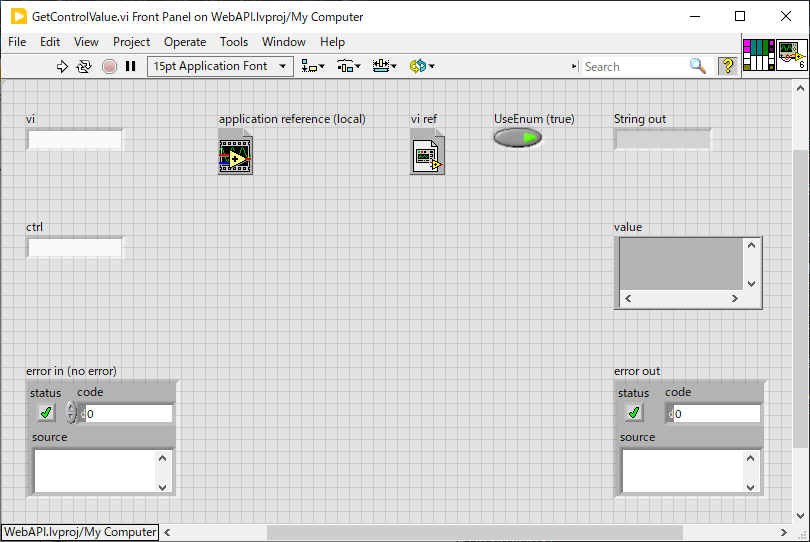
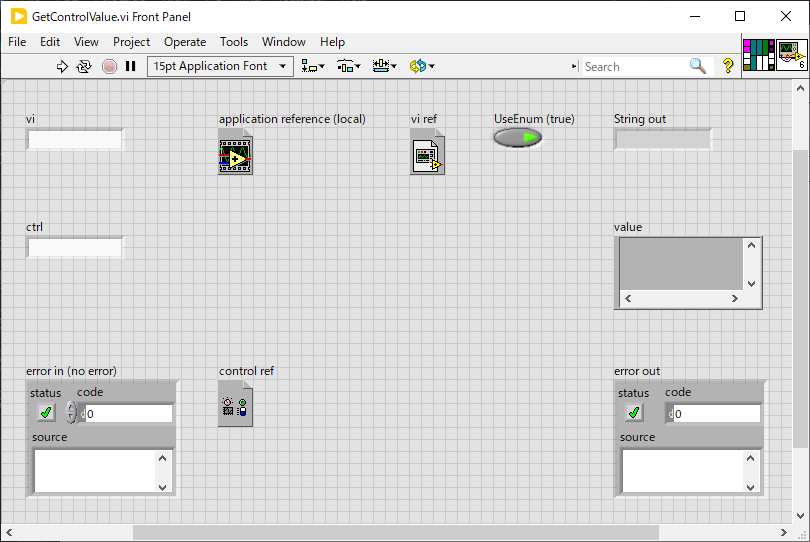
GetControlValue, SetControlValue に control ref 端子を追加

diff --git a/lib/SetGetControlValue/Readme.md b/lib/SetGetControlValue/Readme.md
@@ -234,6 +234,10 @@ JSON には大雑把にプリミティブデータ、配列、オブジェクト
 
 ### SetControlValue.vi
 
+- JSON 文字列で表した値をコントロールに代入するための VI。
+- どのコントロールに代入するかを指定するにはアプリケーション、VI、コントロールを文字列で指定するか、あるいはそれぞれ対応するリファレンスを指定する
+- 値の代入時に `Value Change` イベントを発生させるかどうかを `Signaling` で選べる
+
 ![](image4md/pins-SetControlValue.png)
 
 - `vi`: VI 名を文字列で与える　[詳細についてはこちらを参照](#vi名の指定)
@@ -249,10 +253,19 @@ JSON には大雑把にプリミティブデータ、配列、オブジェクト
 - `vi ref` : VI 名を文字列で与えるのではなく直接 VI のリファレンスを指定するときにここに接続する
   - ここに接続されると `vi` 端子や `application reference (local)` 端子は無視される
   - １つの VI に対して多くのコントロールを書き換えるのであれば何度も VI 名を検索するのは無駄になるのでこの端子を使うと良い
-  - VI 名から VI ref を得るには [VINameToVI.vi](#vinametovivi) を使うと良い
+  - VI 名から `VI ref` を得るには [VINameToVI.vi](#vinametovivi) を使うと良い
+  - 自分自身の `VI ref` を得るには `Application Control` パレットの `VI Server Reference` をドロップすればよい。`This VI` のリファレンスが得られる（下図参照）。
+- `control ref` : 値を設定するコントロールのリファレンスを入れる
+  - ここに値が接続されると `vi`, `ctrl`, `application reference`, `vi ref` は無視される
 - `Signaling` : 通常コントロールの値が変更されると「値変更イベント」が発生するが、この端子に `false` を指定するとイベントを発生しないで値を書き換えられる
 
+![](image4md/ReferenceOfThisVI.png) → ![](image4md/ReferenceOfThisVI2.png)
+
 ### GetControlValue.vi
+
+- 指定したコントロールの値を JSON 文字列として得るための VI。
+- どのコントロールの値を得るかを指定するにはアプリケーション、VI、コントロールを文字列で指定するか、あるいはそれぞれ対応するリファレンスを指定する
+- `Enum` や `Ring` の値を数値として得るか、対応する文字列として得るかを `UseEnum` で選べる
 
 ![](image4md/pins-GetControlValue.png)
 
@@ -266,6 +279,9 @@ JSON には大雑把にプリミティブデータ、配列、オブジェクト
   - ここに接続されると `vi` 端子や `application reference (local)` 端子は無視される
   - １つの VI に対して多くのコントロールを書き換えるのであれば何度も VI 名を検索するのは無駄になるのでこの端子を使うと良い
   - VI 名から VI ref を得るには [VINameToVI.vi](#vinametovivi) を使うと良い
+  - 自分自身の `VI ref` を得るには `Application Control` パレットの `VI Server Reference` をドロップすればよい。`This VI` のリファレンスが得られる（上図参照）。
+- `control ref` : 値を得たいコントロールのリファレンスを入れる
+  - ここに値が入力されれば `app`, `ctrl`, `application reference`, `vi ref` は無視される
 - `UseEnum (true)` : `Enum` や `Ring` コントロールの値を文字列ではなく数値として得たい場合には `false` を指定する
 - `String out` : コントロールの値を JSON 形式の文字列で得る　[詳細についてはこちらを参照](#json形式での値の指定)
 - `Value` : コントロールの値を Variant 形式で得る

diff --git a/Readme.md b/Readme.md
@@ -114,3 +114,5 @@ LabVIEW メタプログラミングの勧め
   - [`GetControlValues.vi`](lib/SetGetControlValue#getcontrolvaluesvi) に `As List` オプションを追加した
 - 2023-10-17
   - [`InsertMenubarItem.vi`](lib/UI/#insertmenubaritemvi) を追加した
+- 2023-10-20
+  - [`GetControlValue.vi`](lib/SetGetControlValue#getcontrolvaluevi), [`SetControlValue.vi`](lib/SetGetControlValue#setcontrolvaluevi) に `control ref` 端子を追加し、アクセスするコントロールを直接指定できるようにした。
